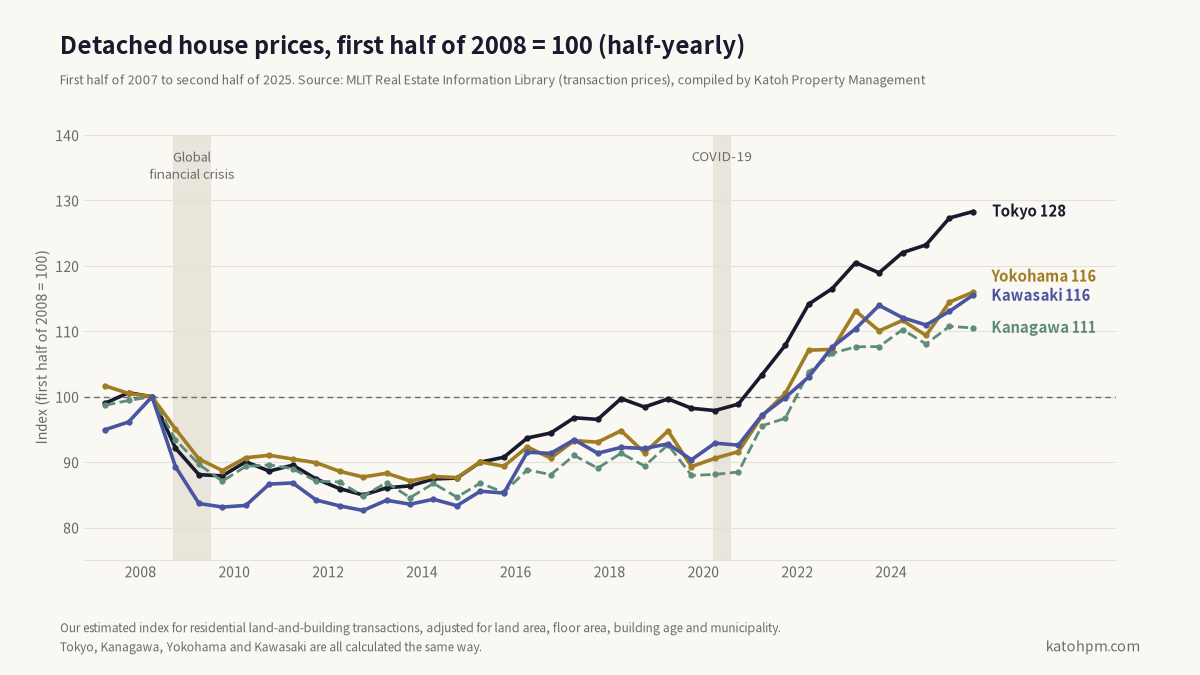
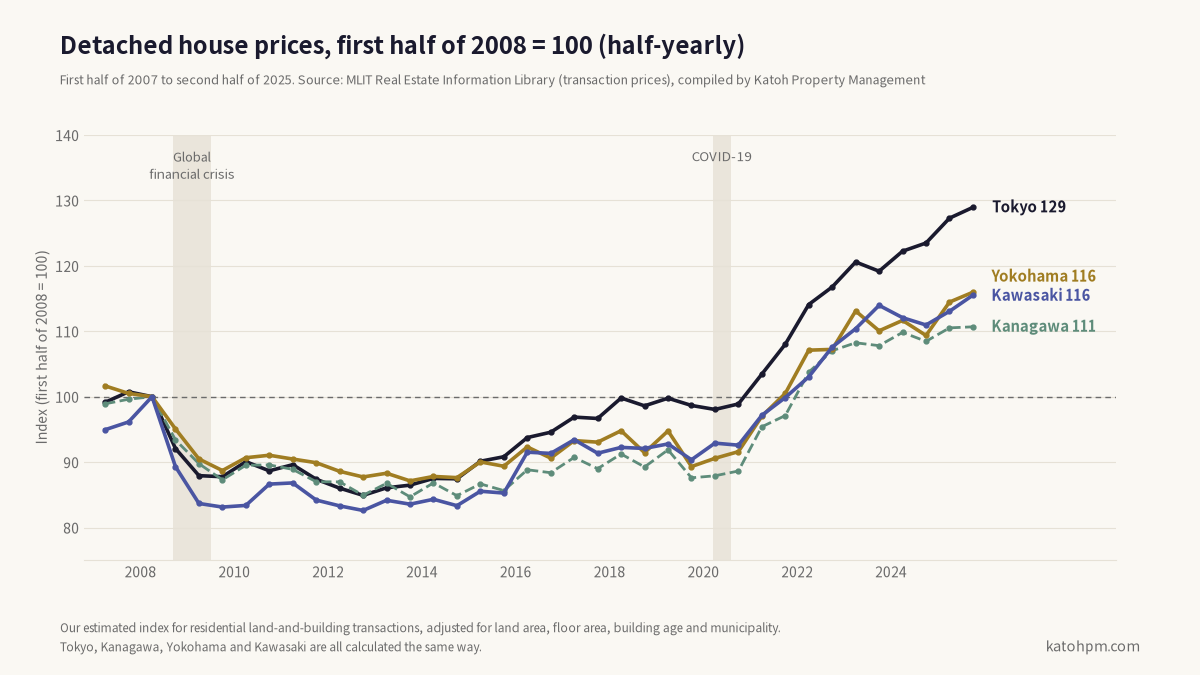
Fix house index: zero-pad 4-digit municipality codes (prefectures 01-09)
Hokkaido towns with codes 013xx/014xx were matched as Tokyo/Kanagawa in the
detached house index. Condo and land indexes were unaffected. Corrects Tokyo
houses 128 -> 129 and the Lehman lows for Tokyo (-15.1%) and Kanagawa (-15.3%).

diff --git a/scripts/shock_recovery.py b/scripts/shock_recovery.py
@@ -142,7 +142,8 @@ def build_index(torihiki_dir, kind):
                     x, logp = (math.log(land), math.log(floor), age, age * age / 100), math.log(price)
             except ValueError:
                 continue  # 「2000㎡以上」など数値でない面積・価格
-            recs.append((f"{year}H{half}", r["MunicipalityCode"], x, logp))
+            # 01〜09 の都道府県は先頭の0が落ちた4桁で入っているので5桁にそろえる
+            recs.append((f"{year}H{half}", r["MunicipalityCode"].zfill(5), x, logp))
     rows = []
     for a, fn in AREAS.items():
         sub = [rec for rec in recs if fn(rec[1])]

diff --git a/src/content/blog/ja/lehman-corona-mansion-kodate-tochi.md b/src/content/blog/ja/lehman-corona-mansion-kodate-tochi.md
@@ -2,14 +2,14 @@
 page_slug: lehman-corona-mansion-kodate-tochi
 title: リーマンショック前と比べて、マンション・一戸建て・土地の価格はどれだけ上がった？（東京・横浜・川崎）
 date: 2026-10-22
-description: リーマンショック前の2008年を100とすると、東京都・神奈川県・横浜市・川崎市の中古マンション価格は2025年に200〜216と約2倍になりました。一方、一戸建ては111〜128、住宅地の地価は103〜119と、伸びはゆるやかです。国土交通省の公的データをもとに、リーマンショックとコロナショックでそれぞれがどれだけ下がり、何年で元の水準に戻ったかを比べます。
+description: リーマンショック前の2008年を100とすると、東京都・神奈川県・横浜市・川崎市の中古マンション価格は2025年に200〜216と約2倍になりました。一方、一戸建ては111〜129、住宅地の地価は103〜119と、伸びはゆるやかです。国土交通省の公的データをもとに、リーマンショックとコロナショックでそれぞれがどれだけ下がり、何年で元の水準に戻ったかを比べます。
 tags: [売却, 購入, 売買, 川崎市, 横浜市, 東京都, 中古マンション, 一戸建て, 地価, 市況]
 draft: false
 faq:
   - q: リーマンショック前と比べて、中古マンションの価格はどれだけ上がりましたか？
     a: 2008年上期を100とした当社の推計では、2025年下期の中古マンション価格は東京都216、神奈川県203、横浜市202、川崎市200で、約2倍になりました。国土交通省の取引価格情報をもとに、築年数・広さ・市区町村の違いをそろえて比べた数字です。
   - q: 一戸建てや土地の価格はどうですか？
-    a: 同じく2008年を100とすると、一戸建ては東京都128、神奈川県111、横浜市116、川崎市116、住宅地の地価（2026年地価公示）は東京都119、神奈川県103、横浜市111、川崎市114です。マンションが約2倍になったのに対し、一戸建てと土地は数%〜3割弱の上昇にとどまっています。
+    a: 同じく2008年を100とすると、一戸建ては東京都129、神奈川県111、横浜市116、川崎市116、住宅地の地価（2026年地価公示）は東京都119、神奈川県103、横浜市111、川崎市114です。マンションが約2倍になったのに対し、一戸建てと土地は数%〜3割弱の上昇にとどまっています。
   - q: リーマンショックの後、元の価格に戻るまで何年かかりましたか？
     a: 中古マンションは2009年上期に底を打ち、横浜市・川崎市は2010年上期、神奈川県は2010年下期、東京都は2013年下期に2008年の水準を超えました。一戸建ては2012〜2013年に底を打ち、2021〜2022年に回復するまで約13〜14年かかりました。住宅地の地価は東京都・横浜市・川崎市が2023年に回復するまで約15年、神奈川県全体では2026年まで18年かかりました。
   - q: コロナショックで不動産価格は下がりましたか？
@@ -20,11 +20,11 @@ faq:
 
 ## リーマンショック前と比べて、いま価格はどれだけ上がったのか
 
-**2008年を100とすると、東京都・神奈川県・横浜市・川崎市の中古マンションは200〜216と約2倍になりました。一戸建ては111〜128、住宅地の地価は103〜119で、伸びはゆるやかです。** 同じ18年ほどの間に、マンションだけが大きく伸びています。
+**2008年を100とすると、東京都・神奈川県・横浜市・川崎市の中古マンションは200〜216と約2倍になりました。一戸建ては111〜129、住宅地の地価は103〜119で、伸びはゆるやかです。** 同じ18年ほどの間に、マンションだけが大きく伸びています。
 
 | エリア | 中古マンション（2025年下期） | 一戸建て（2025年下期） | 住宅地の地価（2026年） |
 | --- | --- | --- | --- |
-| 東京都 | **216** | 128 | 119 |
+| 東京都 | **216** | 129 | 119 |
 | 神奈川県 | **203** | 111 | 103 |
 | 横浜市 | **202** | 116 | 111 |
 | 川崎市 | **200** | 116 | 114 |
@@ -35,7 +35,7 @@ faq:
 
 ![中古マンション価格の推移。2008年上期＝100。2007年から2025年。東京都216、神奈川県203、横浜市202、川崎市200。](/images/blog/shock-recovery-mansion.png)
 
-![一戸建て価格の推移。2008年上期＝100。2007年から2025年。東京都128、横浜市116、川崎市116、神奈川県111。](/images/blog/shock-recovery-kodate.png)
+![一戸建て価格の推移。2008年上期＝100。2007年から2025年。東京都129、横浜市116、川崎市116、神奈川県111。](/images/blog/shock-recovery-kodate.png)
 
 ![住宅地の地価の推移（地価公示）。2008年＝100。2007年から2026年。東京都119、川崎市114、横浜市111、神奈川県103、全国94。](/images/blog/shock-recovery-chika.png)
 
@@ -45,8 +45,8 @@ faq:
 
 | エリア | 中古マンション | 一戸建て | 住宅地の地価 |
 | --- | --- | --- | --- |
-| 東京都 | 2009年上期に底（−7.5%）→ 2013年下期に回復 | 2012年下期に底（−15.0%）→ 2021年上期に回復 | 2013年に底（−14.2%）→ 2023年に回復 |
-| 神奈川県 | 2009年上期に底（−9.7%）→ 2010年下期に回復 | 2013年下期に底（−15.4%）→ 2022年上期に回復 | 2013年に底（−8.8%）→ 2026年に回復 |
+| 東京都 | 2009年上期に底（−7.5%）→ 2013年下期に回復 | 2012年下期に底（−15.1%）→ 2021年上期に回復 | 2013年に底（−14.2%）→ 2023年に回復 |
+| 神奈川県 | 2009年上期に底（−9.7%）→ 2010年下期に回復 | 2013年下期に底（−15.3%）→ 2022年上期に回復 | 2013年に底（−8.8%）→ 2026年に回復 |
 | 横浜市 | 2009年上期に底（−9.8%）→ 2010年上期に回復 | 2013年下期に底（−12.9%）→ 2021年下期に回復 | 2012年に底（−9.6%）→ 2023年に回復 |
 | 川崎市 | 2009年上期に底（−11.6%）→ 2010年上期に回復 | 2012年下期に底（−17.4%）→ 2022年上期に回復 | 2012年に底（−10.0%）→ 2023年に回復 |
 

diff --git a/src/content/blog/en/lehman-corona-mansion-kodate-tochi.md b/src/content/blog/en/lehman-corona-mansion-kodate-tochi.md
@@ -2,14 +2,14 @@
 page_slug: lehman-corona-mansion-kodate-tochi
 title: How much have condo, house and land prices risen since before the 2008 financial crisis? (Tokyo, Yokohama, Kawasaki)
 date: 2026-10-22
-description: Taking 2008, before the global financial crisis, as 100, resale condominium prices in Tokyo, Kanagawa, Yokohama and Kawasaki reached 200–216 in 2025, roughly double. Detached houses, at 111–128, and residential land, at 103–119, rose far more gently. Using public data from Japan's Ministry of Land, Infrastructure, Transport and Tourism, this article compares how far each fell after the 2008 financial crisis and the COVID-19 shock, and how many years it took to return to the earlier level.
+description: Taking 2008, before the global financial crisis, as 100, resale condominium prices in Tokyo, Kanagawa, Yokohama and Kawasaki reached 200–216 in 2025, roughly double. Detached houses, at 111–129, and residential land, at 103–119, rose far more gently. Using public data from Japan's Ministry of Land, Infrastructure, Transport and Tourism, this article compares how far each fell after the 2008 financial crisis and the COVID-19 shock, and how many years it took to return to the earlier level.
 tags: [selling, buying, sales, Kawasaki, Yokohama, Tokyo, resale condominiums, detached houses, land prices, market data]
 draft: false
 faq:
   - q: How much have resale condominium prices risen since before the 2008 financial crisis?
     a: In our estimates, with the first half of 2008 as 100, resale condominium prices in the second half of 2025 were 216 in Tokyo, 203 in Kanagawa, 202 in Yokohama and 200 in Kawasaki, roughly double. The figures are based on the ministry's transaction price data and compare properties after adjusting for building age, floor area and municipality.
   - q: What about detached houses and land?
-    a: With 2008 as 100, detached houses were 128 in Tokyo, 111 in Kanagawa, 116 in Yokohama and 116 in Kawasaki, and residential land prices (official land prices, 2026) were 119 in Tokyo, 103 in Kanagawa, 111 in Yokohama and 114 in Kawasaki. While condominiums roughly doubled, houses and land rose by only a few percent to just under 30%.
+    a: With 2008 as 100, detached houses were 129 in Tokyo, 111 in Kanagawa, 116 in Yokohama and 116 in Kawasaki, and residential land prices (official land prices, 2026) were 119 in Tokyo, 103 in Kanagawa, 111 in Yokohama and 114 in Kawasaki. While condominiums roughly doubled, houses and land rose by only a few percent to just under 30%.
   - q: How many years did it take for prices to recover after the 2008 financial crisis?
     a: Resale condominiums bottomed out in the first half of 2009 and passed their 2008 level in the first half of 2010 in Yokohama and Kawasaki, the second half of 2010 in Kanagawa, and the second half of 2013 in Tokyo. Detached houses bottomed out in 2012–2013 and took about 13–14 years to recover, in 2021–2022. Residential land took about 15 years in Tokyo, Yokohama and Kawasaki, recovering in 2023, and 18 years for Kanagawa as a whole, recovering in 2026.
   - q: Did property prices fall in the COVID-19 shock?
@@ -20,11 +20,11 @@ faq:
 
 ## How much have prices risen since before the 2008 financial crisis?
 
-**Taking 2008 as 100, resale condominiums in Tokyo, Kanagawa, Yokohama and Kawasaki reached 200–216, roughly double. Detached houses were at 111–128 and residential land at 103–119, a much gentler rise.** Over the same 18 or so years, only condominiums grew sharply.
+**Taking 2008 as 100, resale condominiums in Tokyo, Kanagawa, Yokohama and Kawasaki reached 200–216, roughly double. Detached houses were at 111–129 and residential land at 103–119, a much gentler rise.** Over the same 18 or so years, only condominiums grew sharply.
 
 | Area | Resale condominiums (2H 2025) | Detached houses (2H 2025) | Residential land (2026) |
 | --- | --- | --- | --- |
-| Tokyo | **216** | 128 | 119 |
+| Tokyo | **216** | 129 | 119 |
 | Kanagawa | **203** | 111 | 103 |
 | Yokohama | **202** | 116 | 111 |
 | Kawasaki | **200** | 116 | 114 |
@@ -35,7 +35,7 @@ The condominium and house figures are our estimates based on the ministry's tran
 
 ![Resale condominium prices, first half of 2008 = 100, 2007 to 2025. Tokyo 216, Kanagawa 203, Yokohama 202, Kawasaki 200.](/images/blog/shock-recovery-mansion-en.png)
 
-![Detached house prices, first half of 2008 = 100, 2007 to 2025. Tokyo 128, Yokohama 116, Kawasaki 116, Kanagawa 111.](/images/blog/shock-recovery-kodate-en.png)
+![Detached house prices, first half of 2008 = 100, 2007 to 2025. Tokyo 129, Yokohama 116, Kawasaki 116, Kanagawa 111.](/images/blog/shock-recovery-kodate-en.png)
 
 ![Residential land prices (official land prices), 2008 = 100, 2007 to 2026. Tokyo 119, Kawasaki 114, Yokohama 111, Kanagawa 103, Japan 94.](/images/blog/shock-recovery-chika-en.png)
 
@@ -45,8 +45,8 @@ The condominium and house figures are our estimates based on the ministry's tran
 
 | Area | Resale condominiums | Detached houses | Residential land |
 | --- | --- | --- | --- |
-| Tokyo | Bottom 1H 2009 (−7.5%) → recovered 2H 2013 | Bottom 2H 2012 (−15.0%) → recovered 1H 2021 | Bottom 2013 (−14.2%) → recovered 2023 |
-| Kanagawa | Bottom 1H 2009 (−9.7%) → recovered 2H 2010 | Bottom 2H 2013 (−15.4%) → recovered 1H 2022 | Bottom 2013 (−8.8%) → recovered 2026 |
+| Tokyo | Bottom 1H 2009 (−7.5%) → recovered 2H 2013 | Bottom 2H 2012 (−15.1%) → recovered 1H 2021 | Bottom 2013 (−14.2%) → recovered 2023 |
+| Kanagawa | Bottom 1H 2009 (−9.7%) → recovered 2H 2010 | Bottom 2H 2013 (−15.3%) → recovered 1H 2022 | Bottom 2013 (−8.8%) → recovered 2026 |
 | Yokohama | Bottom 1H 2009 (−9.8%) → recovered 1H 2010 | Bottom 2H 2013 (−12.9%) → recovered 2H 2021 | Bottom 2012 (−9.6%) → recovered 2023 |
 | Kawasaki | Bottom 1H 2009 (−11.6%) → recovered 1H 2010 | Bottom 2H 2012 (−17.4%) → recovered 1H 2022 | Bottom 2012 (−10.0%) → recovered 2023 |
 
